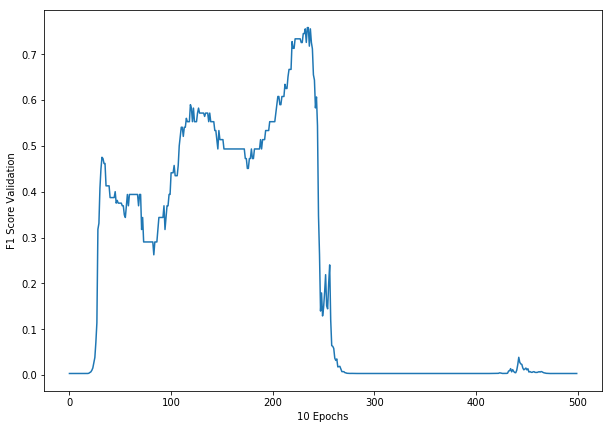
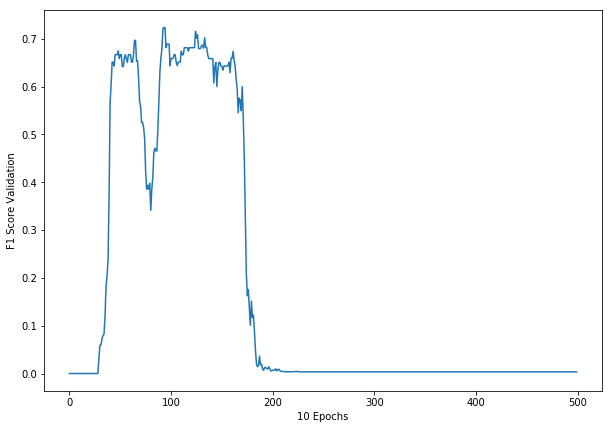
Chapter 6 done :dancer:

diff --git a/Chapter 6.md b/Chapter 6.md
@@ -7,12 +7,6 @@ In the field of finance, data is frequently sparse. Think about the fraud case f
 In algorithmic trading, data is frequently generated in simulators. Want to know how your algorithm would do in a global selloff? There are not that many global selloffs thankfully, so engineers at quant firms spend a lot of time creating simulations of selloffs. These simulators are often biased by the engineers experience and their feelings about what a selloff should look like. But what if models could learn what a selloff fundamentally looks like, and then create data describing an infinite amount of selloffs?
 
 # Understanding autoencoders
-https://blog.keras.io/building-autoencoders-in-keras.html
-
-https://towardsdatascience.com/intuitively-understanding-variational-autoencoders-1bfe67eb5daf
-
-http://tiao.io/posts/implementing-variational-autoencoders-in-keras-beyond-the-quickstart-tutorial/
-
 Technically, autoencoders are not generative models since they can not create completely new kinds of data. Yet, variational autoencoders, a minor tweak to vanilla autonecoders, can. So it makes sense to first understand autoencoders by themselves, before adding the generative element. Autoencoders by themselves also have some interesting properties which can be exploited for applications like detecting credit card fraud. 
 
 Given an input $x$, an autoencoder learns how to output $x$. It aims to find a function $f$ so that:
@@ -326,9 +320,6 @@ For easier spotting the cluster containing most frauds is marked with a circle. 
 Using our autoencoder, we could now use the encoded information as features for a classifier. But even better, with only a slight modification of the autoencoder, we can generate more data that has the underlying properties of a fraud case while having different features. This is done with a variational autoencoder which we will look at in the next section.
 
 # Variational Autoencoders
-
-https://medium.com/@curiousily/credit-card-fraud-detection-using-autoencoders-in-keras-tensorflow-for-hackers-part-vii-20e0c85301bd
-
 Autoencoders are basically an approximation for PCA. However, they can be extended to become generative models. Given an input, variational autoencoders (VAEs) can create encoding _distributions_. This means, that for a fraud case, the encoder would produce a distribution of possible encodings which all represent the most important characteristics of the transaction so that the decoder could turn all encodings back into the original transaction. This is useful, since it allows us to generate data about transactions. One 'problem' of fraud detection is that there are not all that many fraudulent transactions. Using a variational autoencoder, we can sample any amount of transaction encodings and train our classifier with more fraud transaction data.
 
 How do VAEs do it? Instead of having just one compressed representation vector, a VAE has two: One for the mean encoding $\mu$ and one for the standard deviation of this encoding $\sigma$.
@@ -860,8 +851,6 @@ As GANs are unstable and difficult yet useful, a number of empirical tricks have
 For autoencoders, the latent space was a relatively straight forward approximation of principal component analysis. Variational autoencoders create a latent space of distributions, which is useful but still easy to imagine as a form of PCA. So what is the latent space of a GAN if we just sample randomly from it during training. As it turns out, GANs self structure the latent space. Using the latent space of a GAN, you would still be able to cluster MNIST images by the character they display. Research has shown that the latent space of GANs often has some surprising features, such as 'smile vectors' along which generated face images smile more or less. Researchers have also shown that GANs can be used for latent space algebra, where adding the latent representation of different objects creates realistic, new objects. Yet, research on the latent space of GANs is still in its infancy and drawing conclusions about the world from its latent space representations is an active field of research.
 
 ## GAN training tricks 
-https://github.com/soumith/ganhacks
-
 1. Normalize the inputs
 
 Gans don't work well with extreme values so make sure you always have normalized inputs between -1 and 1. This is also the reason why you should use a `tanh` function as your generator output.
@@ -981,7 +970,17 @@ Note: Better user interface design and smart use of weak models can greatly acce
 Often there is plenty of unlabeled data available, but only little labeled data. That unlabeled data can still be used. First, you train a model on the labeled data that you have. Then you let that model make predictions on your corpus of unlabeled data. You treat those predictions as if they were true labels and train your model on the full, pseudo labeled, dataset. However, actual true labels should be used more often than the pseudo labels. The exact sampling rate for pseudo labels can vary for different circumstances. This works under the condition that errors are random. If they are biased, your model will be biased as well. This simple method is surprisingly effective and can greatly reduce labeling efforts. 
 
 ## Using generative models
-As a final applied project of this chapter, let's consider the credit card problem again.
+As it turns out, GANs extend quite naturally to semi supervised training. By giving the discriminator two outputs we can train it to be a classifier as well.
+
+The first output of the discriminator only classifies data as real or fake, just as it did for the GAN above. The second head classifies the data by its class, say the digit an image represents, or an extra 'is fake' class. In the MNIST example the classifying head would have 11 classes, 10 digits plus the 'is fake class'. The trick is that the generator is one model and only the heads, that is the last layer, are different. This forces the 'real or not' classification to share weights with the 'which digit' classifier. The idea is that to determine if an image is real or fake, the classifier would have to figure out if it can classify this image into one class. If it can, the image is probably real. This approach, called semi-supervised generative adversarial network (SGAN) has been shown to generate more realistic data and improve deliver better results on limited data than standard supervised learning. Of course, GANs can be applied to more than just images. In the next section we will apply them to our fraud detection task.
+
+# Semi-Supervised Generative Adversarial Networks for fraud detection
+As a final applied project of this chapter, let's consider the credit card problem again. We will create an SGAN that looks as follows:
+
+![SGAN Scheme](./assets/sgan_scheme.png)
+
+We will train this model on fewer than 1000 transactions and still recieve a decent fraud detector. You can find the code for the SGAN on Kaggle under this link:
+https://www.kaggle.com/jannesklaas/semi-supervised-gan-for-fraud-detection/code
 
 In this case, our data has 29 dimensions. We choose our latent vectors to have ten dimensions.
 ```Python 
@@ -993,6 +992,9 @@ The generator model is constructed as a fully connected network with `LeakyReLU`
 ```Python 
 model = Sequential()
 model.add(Dense(16, input_dim=latent_dim))
+model.add(LeakyReLU(alpha=0.2))
+model.add(BatchNormalization(momentum=0.8))
+model.add(Dense(32, input_dim=latent_dim))
 model.add(LeakyReLU(alpha=0.2))
 model.add(BatchNormalization(momentum=0.8))
 model.add(Dense(data_dim,activation='tanh'))
@@ -1009,10 +1011,12 @@ generator = Model(noise, img)
 Just as the generator, we build the discriminator in the sequential API. As the discriminator has two heads, one for the classes, one for fake or no fake, we first only construct the base of the model.
 ```Python 
 model = Sequential()
-model.add(Dense(16,input_dim=data_dim))
+model.add(Dense(31,input_dim=data_dim))
 model.add(LeakyReLU(alpha=0.2))
 model.add(BatchNormalization(momentum=0.8))
 model.add(Dropout(0.25))
+model.add(Dense(16,input_dim=data_dim))
+model.add(LeakyReLU(alpha=0.2))
 ```
 
 Now we map the input of the discriminator to its two heads using the functional API.
@@ -1035,25 +1039,47 @@ discriminator = Model(img, [valid, label]) #5
 \#5 We create a model mapping the input to the two heads.
 
 
+To compile the discriminator with two heads, we need to use a few advanced model compiling tricks:
 ```Python 
-optimizer = Adam(0.0002, 0.5)
+optimizer = Adam(0.0002, 0.5) #1
 discriminator.compile(loss=['binary_crossentropy',
-                            'categorical_crossentropy'],
-                            loss_weights=[0.5, 0.5],
-                            optimizer=optimizer,
-                            metrics=['accuracy'])
+                            'categorical_crossentropy'], #2
+                            loss_weights=[0.5, 0.5], #3
+                            optimizer=optimizer, #4
+                            metrics=['accuracy']) #5
 ```
+\#1 We define an adam optimizer with a learning rate of 0.0002 and a momentum of 0.5
 
+\#2 Since we have two model heads, we can specify two losses. Our 'fake or not' head is a binary classifier so we use `'binary_crossentropy'` for it. Our classifying head is a multi class classifier, so we use `'categorical_crossentropy'` for the second head.
+
+\#3 We can specify how we want to weight the two different losses. In this case, we give all losses a 50% weight.
+
+\#4 We optimize our pre-defined adam optimizer.
+
+\#5 As long as we are not using soft labels, we can track progress using the accuracy metric.
+
+
+Finally, we create our combined GAN model.
 ```Python 
-noise = Input(shape=(10,))
-img = generator(noise)
-discriminator.trainable = False
-valid,_ = discriminator(img)
-combined = Model(noise , valid)
-combined.compile(loss=['binary_crossentropy'],
+noise = Input(shape=(latent_dim,)) #1
+img = generator(noise) #2
+discriminator.trainable = False #3
+valid,_ = discriminator(img) #4
+combined = Model(noise , valid) #5
+combined.compile(loss=['binary_crossentropy'], #6
                         optimizer=optimizer)
 ```
+\#1 We create a placeholder for the noise vector input.
 
+\#2 We obtain a tensor representing the generated image by mapping the generator to the noise placeholder.
+
+\#3 We make sure we do not destroy the discriminator by setting it to not trainable.
+
+\#4 We only want the discriminator to believe the generated transactions are real, so we can discard the classification output tensor.
+
+\#5 We map the noise input to the 'fake or not fake' output of the discriminator.
+
+For training we define a train function that handles all the training for us:
 ```Python 
 def train(X_train,y_train,
           X_test,y_test,
@@ -1063,80 +1089,106 @@ def train(X_train,y_train,
           epochs, 
           batch_size=128):
     
-    f1_progress = []
-    half_batch = int(batch_size / 2)
+    f1_progress = [] #1
+    half_batch = int(batch_size / 2) #2
 
-    noise_until = epochs
-
-    # Class weights:
-    # To balance the difference in occurences of digit class labels.
-    # 50% of labels that the discriminator trains on are 'fake'.
-    # Weight = 1 / frequency
-    cw1 = {0: 1, 1: 1}
+    cw1 = {0: 1, 1: 1} #3
     cw2 = {i: num_classes / half_batch for i in range(num_classes)}
     cw2[num_classes] = 1 / half_batch
 
     for epoch in range(epochs):
-
-        # ---------------------
-        #  Train Discriminator
-        # ---------------------
-
-        # Select a random half batch of images
-        idx = np.random.randint(0, X_train.shape[0], half_batch)
+      
+        idx = np.random.randint(0, X_train.shape[0], half_batch) #4
         imgs = X_train[idx]
 
-        # Sample noise and generate a half batch of new images
-        noise = np.random.normal(0, 1, (half_batch, 10))
+        noise = np.random.normal(0, 1, (half_batch, 10)) #5
         gen_imgs = generator.predict(noise)
-
+        
+        #6
         valid = np.ones((half_batch, 1))
         fake = np.zeros((half_batch, 1))
-
+        
+        #7
         labels = to_categorical(y_train[idx], num_classes=num_classes+1)
-        fake_labels = to_categorical(np.full((half_batch, 1), num_classes), num_classes=num_classes+1)
-
-        # Train the discriminator
-        d_loss_real = discriminator.train_on_batch(imgs, [valid, labels], class_weight=[cw1, cw2])
-        d_loss_fake = discriminator.train_on_batch(gen_imgs, [fake, fake_labels], class_weight=[cw1, cw2])
+        
+        #8
+        fake_labels = np.full((half_batch, 1),num_classes)
+        fake_labels = to_categorical(fake_labels,num_classes=num_classes+1)
+        #9
+        d_loss_real = discriminator.train_on_batch(imgs, 
+                                                  [valid, labels],
+                                                  class_weight=[cw1, cw2])
+        #10
+        d_loss_fake = discriminator.train_on_batch(gen_imgs, 
+                                                    [fake, fake_labels],
+                                                    class_weight=[cw1, cw2])
+        #11
         d_loss = 0.5 * np.add(d_loss_real, d_loss_fake)
 
-
-        # ---------------------
-        #  Train Generator
-        # ---------------------
-
+        #12
         noise = np.random.normal(0, 1, (batch_size, 10))
         validity = np.ones((batch_size, 1))
+        #13
+        g_loss = combined.train_on_batch(noise, 
+                                          validity, 
+                                          class_weight=[cw1, cw2])
 
-        # Train the generator
-        g_loss = combined.train_on_batch(noise, validity, class_weight=[cw1, cw2])
-
-        # Plot the progress
-        print ("%d [D loss: %f, acc: %.2f%%, op_acc: %.2f%%] [G loss: %f]" % (epoch, d_loss[0], 100*d_loss[3], 100*d_loss[4], g_loss))
+        #14
+        print ("%d [D loss: %f] [G loss: %f]" % (epoch, g_loss))
         
+        #15
         if epoch % 10 == 0:
             _,y_pred = discriminator.predict(X_test,batch_size=batch_size)
-            #print(y_pred.shape)
             y_pred = np.argmax(y_pred[:,:-1],axis=1)
             
             f1 = f1_score(y_test,y_pred)
-            print('Epoch: {}, F1: {:.5f}, F1P: {}'.format(epoch,f1,len(f1_progress)))
+            print('Epoch: {}, F1: {:.5f}'.format(epoch,f1))
             f1_progress.append(f1)
             
     return f1_progress
 ``` 
+\#1 We create an empty array to monitor the F1 Score of the discriminator on the test set.
 
+\#2 Since we use separate batch training steps for real and fake data, we effectively use a half batch for each of the training steps.
+
+\#3 The classification head of the discriminator has a class label for 'this is fake'. Since half of the images are fake, we want to give this class a higher weight.
+
+\#4 We now draw a random sample of real data.
+
+\#5 We generate some random noise vectors and use the generator to create some fake data.
+
+\#6 For the 'fake or not head' we create labels. All real images have the label 1 (real), all fake images have the label 0 (fake).
+
+\#7 We one hot encode the labels of our real data. By specifying that our data has one more classes than it actually has, we leave space for the 'is fake' class.
+
+\#8 Our fake data all has the 'is fake' label. We create a vector of those labels and one hot encode them, too.
+
+\#9 First, we train the discriminator on the real data.
+
+\#10 Then we train the descriminator on the fake data.
+
+\#11 total loss of the discriminator for this epoch is the mean of the loss from the real and fake data.
+
+\#12 Now we train the generator. We generate a batch full of noise vectors as well as a batch full of labels saying 'this is real data'.
+
+\#13 With this data in hand we train the generator.
+
+\#14 To keep track of what is going on, we print out the progress. Remember that we do _not_ want the losses to go down, we want them to stay roughly constant. If either generator or discriminator becomes much better than the other the equilibrium breaks.
+
+\#15 Finally, we calculate and output the F1 score of using the discriminator as a fraud detection classifier for the data. This time, we only care about the classification data and discard the 'real or fake' head. We classify the transactions by the highest value that is not the 'is real' class of the classifier.
+
+
+Now that we have everything set up, we train our SGAN for 5,000 epochs. This takes about 5 minutes on a GPU, but could take much longer if you do not have a GPU.
 ```Python
 f1_p = train(X_res,y_res,
              X_test,y_test,
              generator,discriminator,
              combined,
-             num_classes=2,e
-             pochs=5000, 
+             num_classes=2,
+             epochs=5000, 
              batch_size=128)
 ```
-
+Finally, we plot the F1 score of our semi supervised fraud classifier over time:
 ```Python 
 fig = plt.figure(figsize=(10,7))
 plt.plot(f1_p)
@@ -1146,16 +1198,14 @@ plt.ylabel('F1 Score Validation')
 
 ![SGAN Progress](./assets/sgan_credit_card.png)
 
-General explainer
-https://stackoverflow.com/questions/18944805/what-is-weakly-supervised-learning-bootstrapping
+As you can see, the model learns pretty quickly at first, but then 'collapses' with its F1 score going to zero. This is a textbook example of a collapsing GAN. As mentioned above, GANs are unstable. If the delicate balance between the generator and discriminator breaks, performance quickly deteriorates. It is an active area of reasearch to make GANs more stable. So far, many practitioners just try many runs with different hyperparameters and random seeds and hope to get lucky. Another popular method is to just to save the model every couple of epochs. The model seems to be a pretty decent fraud detector at around epoch 150 despite being trained on less than 1000 transactions.
 
-With humans
-https://becominghuman.ai/accelerate-machine-learning-with-active-learning-96cea4b72fdb
+# Exercises
+- Create an SGAN to train MNIST an image classifier. How few images can you use to achieve over 90% classification accuracy.
 
-Without humans 
-https://shaoanlu.wordpress.com/2017/04/10/a-simple-pseudo-labeling-function-implementation-in-keras/
+- Using LSTMs you can build an autoencoder for stock price movements. Using a dataset such as the DJIA stock prices, build an autoencoder that encodes stock movements. Then visualize what happens to the outputs as you move through the latent space. You can find the dataset here: https://www.kaggle.com/szrlee/stock-time-series-20050101-to-20171231
 
-https://www.kaggle.com/glowingbazooka/semi-supervised-model-using-keras
-
+# Summary
+In this chapter you have learned about the two most important types of generative models: Autoencoders and GANs. You have learned about latent spaces and the use they have for financial analysis. You also got a first impression on how machine learning can solve game-theoretic optimization problems. In the next chapter we will deep dive into exactly that type of optimization as we cover reinforcement learning. 
 
 
